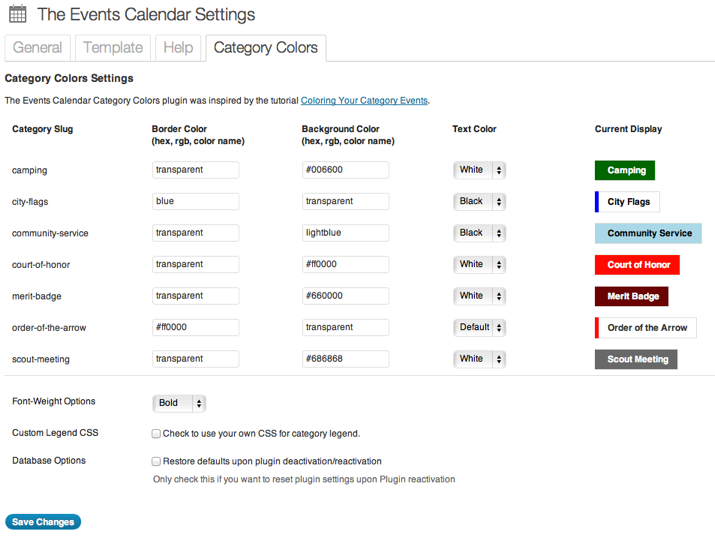
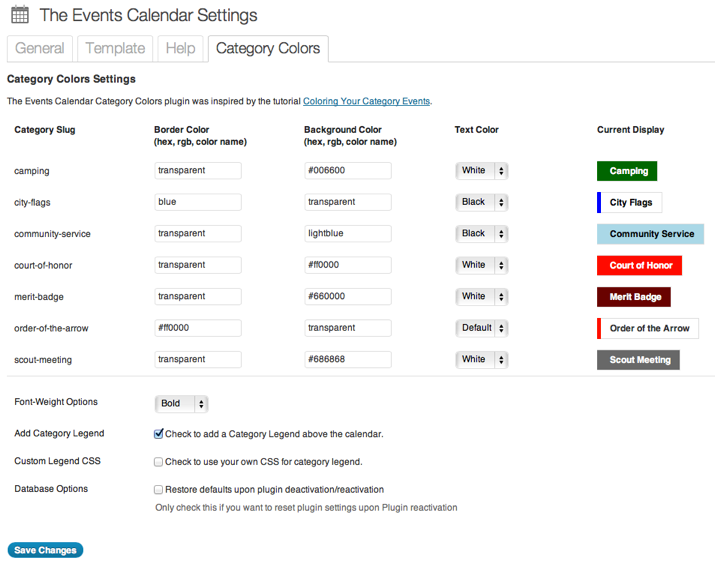
on/off pref for legend

diff --git a/the-events-calendar-category-colors.php b/the-events-calendar-category-colors.php
@@ -104,13 +104,14 @@ function teccc_writeCategoryCSS() {
 		$catCSS[] = '.cat_' . $slugs[$i] . ', .tribe-events-calendar .cat_' . $slugs[$i] . ', .cat_' . $slugs[$i] . ' > .tribe-events-tooltip .tribe-events-event-title { background-color: ' . $options[$slugs[$i].'-background'] . '; border-left: 5px solid ' . $options[$slugs[$i].'-border'] . ';color:#000; }' ;
 		}
 	}
-	if ( ( !isset($options['custom_legend_css']) ) ) {
+	if ( !isset($options['custom_legend_css']) ) {
 		$catCSS[] = "#legend_box {font-size:10px;margin-left:2em;padding:10px;}";
 		$catCSS[] = "#legend li {text-align:center;display:inline;list-style-type:none;line-height:2.5em;padding:7px;padding-left:2px;}";
 	}
 	$catCSS[] = "</style>";
 	$content = implode( "\n", $catCSS ) . "\n";
 	if ( !is_admin() ) { echo $content; }
+	if ( isset($options['add_legend']) ) { add_action( 'teccc_legend_hook', 'teccc_legend' ); }
 	return $content;
 }
 
@@ -189,12 +190,13 @@ function teccc_add_defaults() {
 	if(($tmp['chk_default_options_db']=='1')||(!is_array($tmp))) {
 		delete_option('teccc_options'); // so we don't have to reset all the 'off' checkboxes too! (don't think this is needed but leave for now)
 		for ($i = 0; $i < $count; $i++) {
-			$arr[$slugs[$i]."-text"] = "0";
+			$arr[$slugs[$i]."-text"] = "#000";
 			$arr[$slugs[$i]."-background"] = "transparent";
 			$arr[$slugs[$i]."-border"] = "transparent";
 		}
 		$arr['font_weight'] = "bold";
-		$arr['custom_legend_css'] = "0";
+		//$arr['custom_legend_css'] = "0";
+		//$arr['add_legend'] = "0";
 		update_option('teccc_options', $arr);
 	}
 }
@@ -306,6 +308,9 @@ function teccc_options_elements() {
 		}
 	$form[] = "</select></td></tr>";
 	
+	$form[] = '<tr><th scope="row">Add Category Legend</th><td colspan="5">';
+	$form[] = '<label><input name="teccc_options[add_legend]" type="checkbox" value="1"' . checked('1', $options['add_legend'], false) . " /> Check to add a Category Legend above the calendar.</label>";
+	
 	$form[] = '<tr><th scope="row">Custom Legend CSS</th><td colspan="5">';
 	$form[] = '<label><input name="teccc_options[custom_legend_css]" type="checkbox" value="1"' . checked('1', $options['custom_legend_css'], false) . " /> Check to use your own CSS for category legend.</label>";
 	
@@ -371,7 +376,6 @@ function add_CSS($query) {
 	if ( ($query->query_vars['post_type'] == 'tribe_events') ) {
 		if ( ($query->query_vars['eventDisplay'] == 'month') ) {
 			add_action('wp_head', 'teccc_writeCategoryCSS');
-			add_action( 'teccc_legend_hook', 'teccc_legend', 10 );
 		}
 	}
 }
